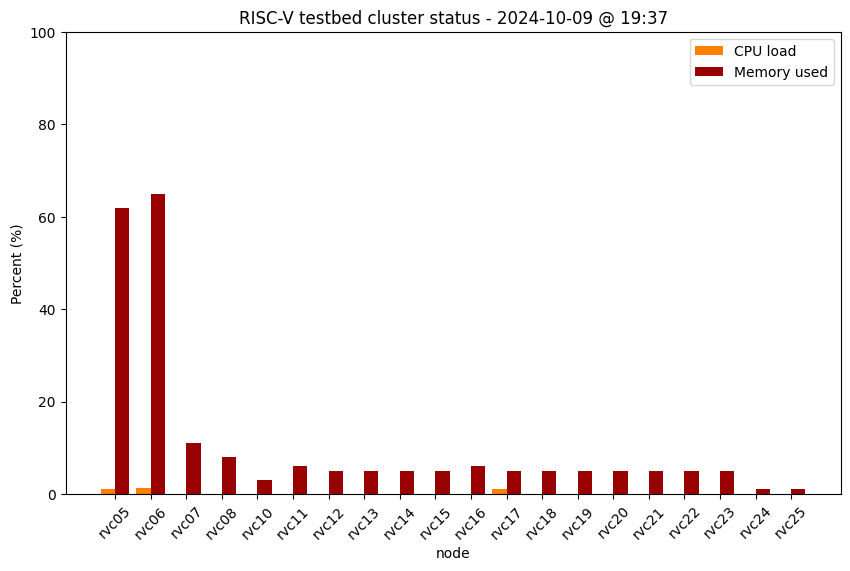
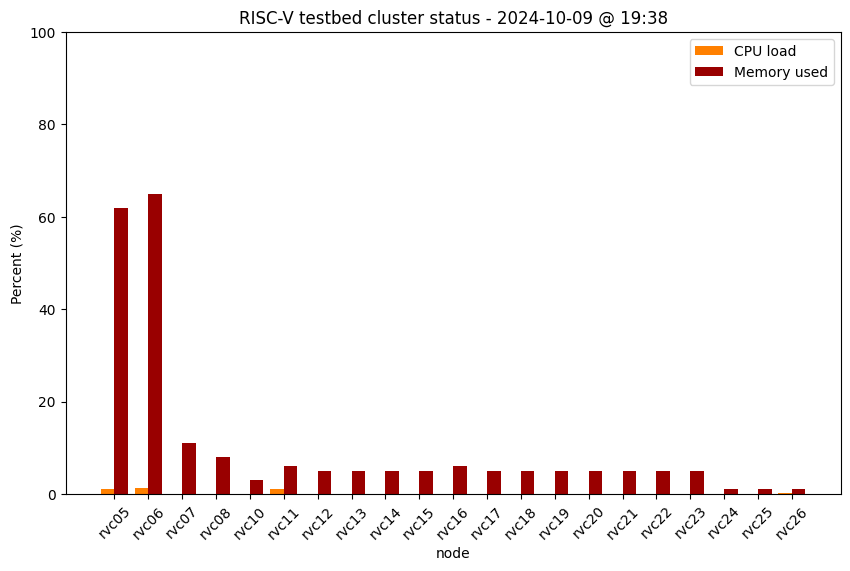
Update cluster status

Changed region(s): [[0.1529, 0.3573, 0.8871, 0.8634], [0.1529, 0.8932, 0.9482, 0.9527], [0.7647, 0.0298, 0.7953, 0.0595]]

diff --git a/status.md b/status.md
@@ -38,5 +38,5 @@ permalink: /status/
 | StarFive VisionFive V2 #13 | rvc23 | 4 | 8GB | <img src="/images/on.png" alt="green light" width="10"/> up |
 | Milk-V Pioneer #1 | rvc24 | 64 | 128GB | <img src="/images/on.png" alt="green light" width="10"/> up |
 | Milk-V Pioneer #2 | rvc25 | 64 | 128GB | <img src="/images/on.png" alt="green light" width="10"/> up |
-| Milk-V Pioneer #3 | rvc26 | 64 | 128GB | <img src="/images/off.png" alt="red light" width="10"/> down |
+| Milk-V Pioneer #3 | rvc26 | 64 | 128GB | <img src="/images/on.png" alt="green light" width="10"/> up |
 
